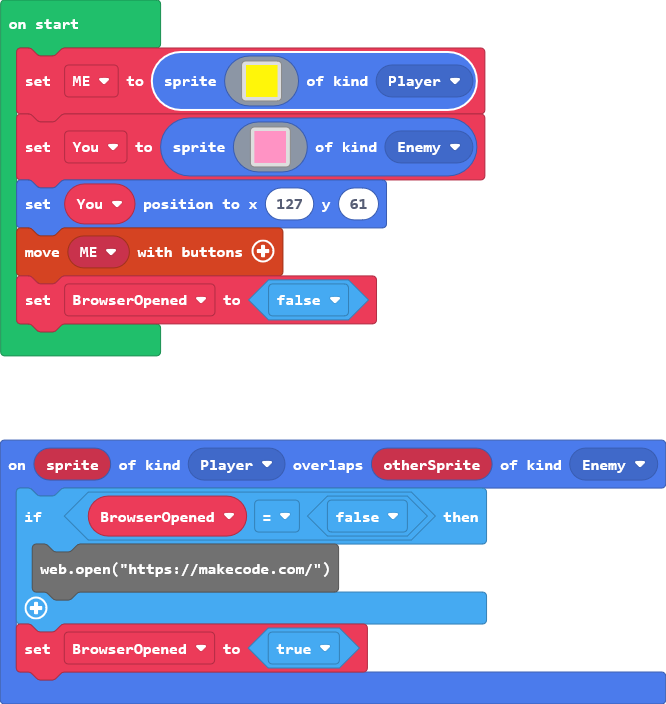
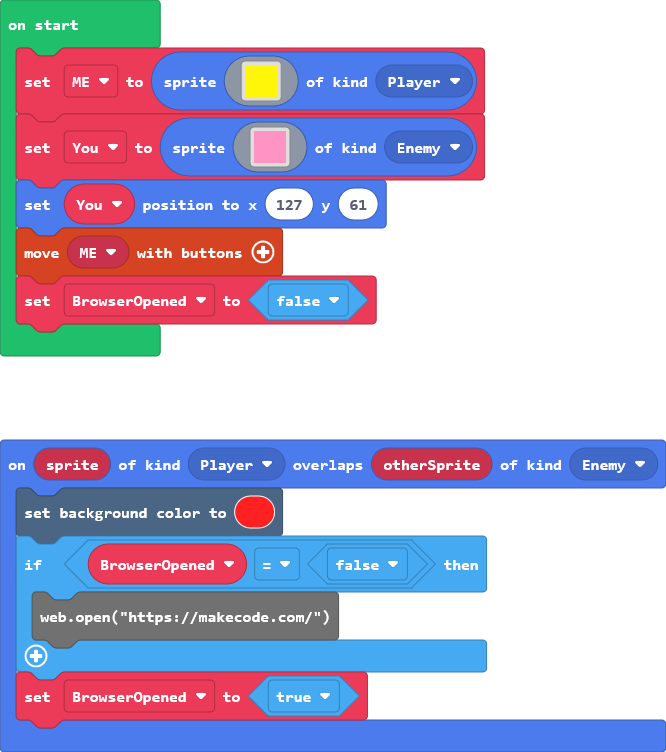
Red background

diff --git a/main.ts b/main.ts
@@ -1,4 +1,5 @@
 sprites.onOverlap(SpriteKind.Player, SpriteKind.Enemy, function (sprite, otherSprite) {
+    scene.setBackgroundColor(2)
     if (BrowserOpened == false) {
         web.open("https://makecode.com/")
     }
